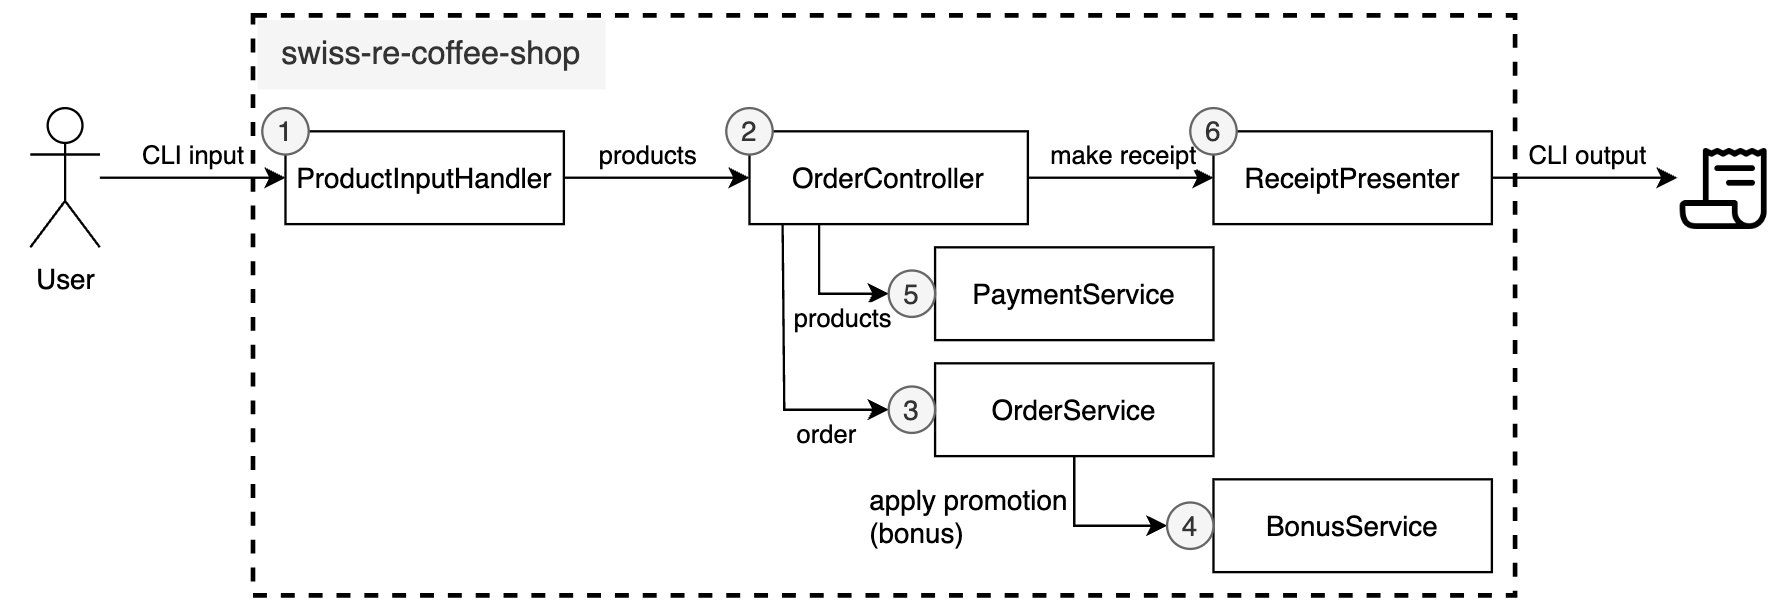
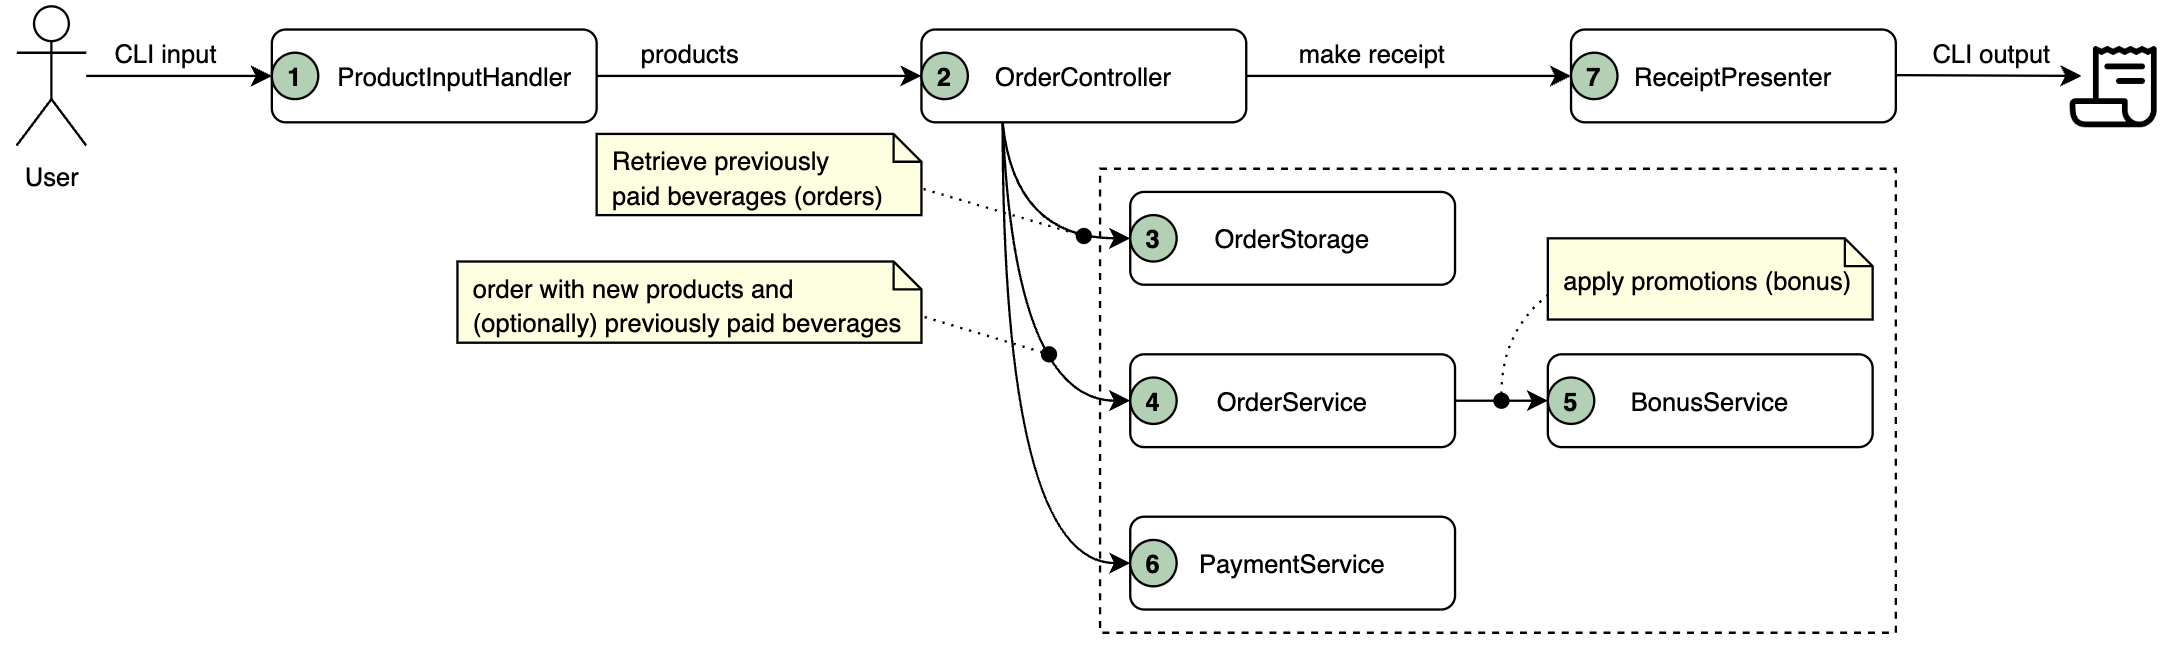
Swiss Re: Update README.md and LLD.md

diff --git a/LLD.md b/LLD.md
@@ -11,14 +11,126 @@ Domain model classes are described below:
 
 ![uml](/images/class-model-uml-diagram.png)
 
-| Class                     | Attributes                                                                                           | Methods                                                                                                                                                                                                                                                                                                      | Description                                                           |
-|:--------------------------|:-----------------------------------------------------------------------------------------------------|:-------------------------------------------------------------------------------------------------------------------------------------------------------------------------------------------------------------------------------------------------------------------------------------------------------------|:----------------------------------------------------------------------|
-| [Product][prod_link]      | - name: String<br>- price: double                                                                    | + Product(name: String, price: double)<br>+ getName(): String<br>+ getPrice(): double<br>+ equals(Object): boolean<br>+ hashCode(): int                                                                                                                                                                      | Abstract class for coffee shop products.                              |
-| [BaconRoll][bacon_link]   | Inherits from Product                                                                                | + BaconRoll(size: BaconRollSize)                                                                                                                                                                                                                                                                             | Represents a Bacon Roll product.                                      |
-| [Coffee][coffee_link]     | Inherits from Product                                                                                | + Coffee(size: CoffeeSize)                                                                                                                                                                                                                                                                                   | Represents a Coffee product.                                          |
-| [OrangeJuice][juice_link] | Inherits from Product                                                                                | + OrangeJuice(size: OrangeJuiceSize)                                                                                                                                                                                                                                                                         | Represents an Orange Juice product.                                   |
-| [Order][order_link]       | - products: List<Product><br>- status: OrderStatus<br>- totalCost: double<br>- totalDiscount: double | + Order(products: List<Product>)<br>+ addProduct(product: Product)<br>+ getProducts(): List<Product><br>+ getStatus(): OrderStatus<br>+ setStatus(status: OrderStatus)<br>+ getTotalCost(): double<br>+ setTotalCost(totalCost: double)<br>+ applyDiscount(discount: double)<br>+ getTotalDiscount(): double | Manages orders, handling product lists and finances.                  |
-| [ExtraItem][extra_link]   | Inherits from Product                                                                                | + ExtraItem(option: ExtraOption)                                                                                                                                                                                                                                                                             | Represents additional items (extras) that can enhance other products. |
+<details>
+  <summary>Click to expand...</summary>
+
+```text
+@startuml
+' Set skin parameters for a cohesive visualization
+skinparam classAttributeIconSize 0
+skinparam roundcorner 20
+skinparam class {
+BackgroundColor White
+ArrowColor Black
+BorderColor Black
+}
+
+' Define the BeverageProduct interface with detailed description
+interface BeverageProduct {
+}
+note right of BeverageProduct
+**Marker interface for beverage-type products**
+
+This interface serves as a type marker, indicating that a product qualifies as a beverage.
+It is primarily used for type distinction and to enforce a contract which segregates
+beverage products from other product types in the system.
+
+Implementing this interface allows using type checks to ensure certain operations or
+methods are applicable exclusively to beverages. It carries no methods or fields
+and only serves to identify a product as a beverage.
+end note
+
+' Define Abstract Class Product with description
+abstract class Product {
+- name : String
+- price : double
++ {abstract} Product(name : String, price : double)
++ getName() : String
++ getPrice() : double
++ equals(o : Object) : boolean
++ hashCode() : int
+}
+note left of Product
+**Abstract base class for all products**
+
+This abstract class represents a general framework for a product in the coffee shop.
+It defines essential properties such as product name and price, which are common across
+all derived product types.
+
+The intention of this class is to be extended by specific product classes to diversify the
+product offerings, maintaining consistent attributes like name and price that are crucial
+for business operations.
+end note
+
+' Define relations - inheritance and interface implementation
+BaconRoll -up-|> Product
+Coffee -up-|> Product
+ExtraItem -up-|> Product
+OrangeJuice -up-|> Product
+
+Coffee ..|> BeverageProduct
+OrangeJuice ..|> BeverageProduct
+
+' Define Product Subclasses
+class BaconRoll {
++ BaconRoll(size : BaconRollSize)
+}
+
+class Coffee {
++ Coffee(size : CoffeeSize)
+}
+
+class ExtraItem {
++ ExtraItem(option : ExtraOption)
+}
+
+class OrangeJuice {
++ OrangeJuice(size : OrangeJuiceSize)
+}
+
+' Define Order class with existing description
+class Order {
+- products : List<Product>
+- alreadyPaidProducts : List<Product>
+- status : OrderStatus
+- totalCost : double
+- totalDiscount : double
+
+    + Order(products : List<Product>)
+    + addProduct(product : Product)
+    + getProducts() : List<Product>
+    + setAlreadyPaidProducts(alreadyPaidProducts : List<Product>)
+    + getAlreadyPaidProducts() : List<Product>
+    + getStatus() : OrderStatus
+    + setStatus(status : OrderStatus)
+    + getTotalCost() : double
+    + setTotalCost(totalCost : double)
+    + applyDiscount(discount : double)
+    + getTotalDiscount() : double
+}
+note right of Order
+**Order class**
+Represents an order in the coffee shop, which can contain multiple products.
+This class manages the collection of products, and the various states and financial
+attributes of an order, such as total cost and discounts applied.
+end note
+
+' Show Composition relation between Order and Product
+Order "1" *-- "*" Product
+@enduml
+```
+
+</details>
+
+| # | Class                            | Attributes                                                                                                                                    | Methods                                                                                                                                                                                                                                                                                                                                                                                                        | Description                                                                                                                                             |
+|:--|:---------------------------------|:----------------------------------------------------------------------------------------------------------------------------------------------|:---------------------------------------------------------------------------------------------------------------------------------------------------------------------------------------------------------------------------------------------------------------------------------------------------------------------------------------------------------------------------------------------------------------|:--------------------------------------------------------------------------------------------------------------------------------------------------------|
+| 1 | [Product][prod_link]             | - name: String<br>- price: double                                                                                                             | + Product(name: String, price: double)<br>+ getName(): String<br>+ getPrice(): double<br>+ equals(Object): boolean<br>+ hashCode(): int                                                                                                                                                                                                                                                                        | Abstract class for coffee shop products.                                                                                                                |
+| 2 | [BaconRoll][bacon_link]          | Inherits from Product                                                                                                                         | + BaconRoll(size: BaconRollSize)                                                                                                                                                                                                                                                                                                                                                                               | Represents a Bacon Roll product.                                                                                                                        |
+| 3 | [Coffee][coffee_link]            | Inherits from Product                                                                                                                         | + Coffee(size: CoffeeSize)                                                                                                                                                                                                                                                                                                                                                                                     | Represents a Coffee product.                                                                                                                            |
+| 4 | [OrangeJuice][juice_link]        | Inherits from Product                                                                                                                         | + OrangeJuice(size: OrangeJuiceSize)                                                                                                                                                                                                                                                                                                                                                                           | Represents an Orange Juice product.                                                                                                                     |
+| 5 | [Order][order_link]              | - products: List<Product><br>- alreadyPaidProducts : List<Product><br>- status: OrderStatus<br>- totalCost: double<br>- totalDiscount: double | + Order(products: List<Product>)<br>+ addProduct(product: Product)<br>+ getProducts(): List<Product><br>+ getAlreadyPaidProducts(): List<Product><br>+ setAlreadyPaidProducts(products: List<Product>)<br>+ getStatus(): OrderStatus<br>+ setStatus(status: OrderStatus)<br>+ getTotalCost(): double<br>+ setTotalCost(totalCost: double)<br>+ applyDiscount(discount: double)<br>+ getTotalDiscount(): double | Manages orders, handling product lists and finances, including tracking of already paid products.                                                       |
+| 6 | [ExtraItem][extra_link]          | Inherits from Product                                                                                                                         | + ExtraItem(option: ExtraOption)                                                                                                                                                                                                                                                                                                                                                                               | Represents additional items (extras) that can enhance other products.                                                                                   |
+| 7 | [BeverageProduct][beverage_link] | None                                                                                                                                          | None                                                                                                                                                                                                                                                                                                                                                                                                           | Marker interface for beverage-type products, used for type distinction and enforcing a contract segregating beverage products from other product types. |
 
  [prod_link]: https://github.com/smirnou/swiss-re-coffee-shop/blob/main/src/main/java/org/epam/swissre/coffeeshop/model/Product.java
  [bacon_link]: https://github.com/smirnou/swiss-re-coffee-shop/blob/main/src/main/java/org/epam/swissre/coffeeshop/model/BaconRoll.java
@@ -26,6 +138,7 @@ Domain model classes are described below:
  [juice_link]: https://github.com/smirnou/swiss-re-coffee-shop/blob/main/src/main/java/org/epam/swissre/coffeeshop/model/OrangeJuice.java
  [order_link]: https://github.com/smirnou/swiss-re-coffee-shop/blob/main/src/main/java/org/epam/swissre/coffeeshop/model/Order.java
  [extra_link]: https://github.com/smirnou/swiss-re-coffee-shop/blob/main/src/main/java/org/epam/swissre/coffeeshop/model/ExtraItem.java
+[beverage_link]: https://github.com/smirnou/swiss-re-coffee-shop/blob/main/src/main/java/org/epam/swissre/coffeeshop/model/BeverageProduct.java
 
 ## Services
 
@@ -36,14 +149,16 @@ Main important services and their workflow are described below:
 | # | Abstract class / interface | Service                                               | Description                                                                                                                                                                                                                                                                        |
 |:--|:---------------------------|:------------------------------------------------------|:-----------------------------------------------------------------------------------------------------------------------------------------------------------------------------------------------------------------------------------------------------------------------------------|
 | 1 | ProductInputHandler        | [CLIProductInputHandler][CLIProductInputHandler_link] | The [CLIProductInputHandler][CLIProductInputHandler_link] implements this interface for command-line based interaction, managing user inputs and directing them appropriately in the console environment.                                                                          |
-| 2 | IOrderController           | [OrderController][OrderController_link]               | The [OrderController][OrderController_link] class orchestrates the processing of orders, calculation of payments, and the presentation of receipts. It serves as a mediator between the service layer (order and payment services) and the presentation layer (receipt presenter). |
-| 3 | IOrderService              | [OrderService][OrderService_link]                     | The [OrderService][OrderService_link] class responsible for handling orders and their related operations, including applying any promotional strategies prior to finalizing the order total.                                                                                       |
-| 4 | IBonusService              | [BonusService][BonusService_link]                     | The [BonusService][BonusService_link] class manages the application of various promotional (bonus) strategies to orders. This service allows for registration of multiple promotion (bonus) strategies and applies all registered strategies to a given order.                     |
-| 5 | IPaymentService            | [PaymentService][PaymentService_link]                 | The [PaymentService][PaymentService_link] class responsible for handling financial transactions related to orders.                                                                                                                                                                 |
-| 6 | ReceiptPresenter           | [CLIReceiptPresenter][CLIReceiptPresenter_link]       | Defines the structure for presenting purchase receipts in various formats. The [CLIReceiptPresenter][CLIReceiptPresenter_link] class is an implementation tailored for command-line environments, where it formats and displays the receipt details directly on the console.       |
+| 3 | IOrderController           | [OrderController][OrderController_link]               | The [OrderController][OrderController_link] class orchestrates the processing of orders, calculation of payments, and the presentation of receipts. It serves as a mediator between the service layer (order and payment services) and the presentation layer (receipt presenter). |
+| 2 | IOrderStorage              | [OrderStorage][OrderStorage_link]                     | The [OrderStorage][OrderStorage_link] class manages the storage and retrieval of Orders, specifically the products within an order, to and from a CSV file.                                                                                                                        |
+| 4 | IOrderService              | [OrderService][OrderService_link]                     | The [OrderService][OrderService_link] class responsible for handling orders and their related operations, including applying any promotional strategies prior to finalizing the order total.                                                                                       |
+| 5 | IBonusService              | [BonusService][BonusService_link]                     | The [BonusService][BonusService_link] class manages the application of various promotional (bonus) strategies to orders. This service allows for registration of multiple promotion (bonus) strategies and applies all registered strategies to a given order.                     |
+| 6 | IPaymentService            | [PaymentService][PaymentService_link]                 | The [PaymentService][PaymentService_link] class responsible for handling financial transactions related to orders.                                                                                                                                                                 |
+| 7 | ReceiptPresenter           | [CLIReceiptPresenter][CLIReceiptPresenter_link]       | Defines the structure for presenting purchase receipts in various formats. The [CLIReceiptPresenter][CLIReceiptPresenter_link] class is an implementation tailored for command-line environments, where it formats and displays the receipt details directly on the console.       |
 
  [CLIProductInputHandler_link]: https://github.com/smirnou/swiss-re-coffee-shop/blob/main/src/main/java/org/epam/swissre/coffeeshop/input/impl/CLIProductInputHandler.java
  [OrderController_link]: https://github.com/smirnou/swiss-re-coffee-shop/blob/main/src/main/java/org/epam/swissre/coffeeshop/controller/impl/OrderController.java
+ [OrderStorage_link]: https://github.com/smirnou/swiss-re-coffee-shop/blob/main/src/main/java/org/epam/swissre/coffeeshop/service/impl/OrderStorage.java
  [OrderService_link]: https://github.com/smirnou/swiss-re-coffee-shop/blob/main/src/main/java/org/epam/swissre/coffeeshop/service/impl/OrderService.java
  [BonusService_link]: https://github.com/smirnou/swiss-re-coffee-shop/blob/main/src/main/java/org/epam/swissre/coffeeshop/service/impl/BonusService.java
  [PaymentService_link]: https://github.com/smirnou/swiss-re-coffee-shop/blob/main/src/main/java/org/epam/swissre/coffeeshop/service/impl/PaymentService.java

diff --git a/README.md b/README.md
@@ -12,6 +12,12 @@ It allows users to add products to an order, review the order, confirm it, and p
 ## Design
 The LLD and technical overview are located in a separate [LLD](LLD.md) file.
 
+## Code Coverage
+
+View the latest code coverage report [here](https://smirnou.github.io/swiss-re-coffee-shop/coverage/index.html).
+
+This report is generated by JaCoCo and deployed to GitHub Pages automatically via GitHub Actions. It provides insights into the test coverage of the project’s codebase, helping maintain high code quality and reliability.
+
 ## Installation
 
 ### Prerequisites
